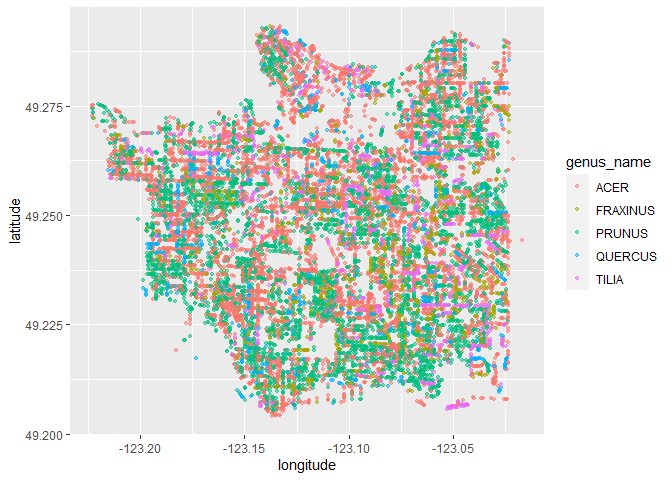
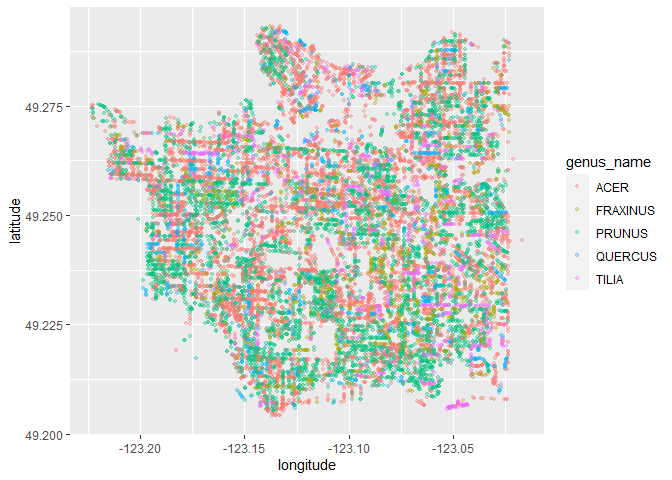
Update Rmd & md & image

Changed region(s): [[0.125, 0.0312, 0.7812, 0.875], [0.75, 0.0938, 0.7812, 0.125]]

diff --git a/mini-project-1.md b/mini-project-1.md
@@ -538,7 +538,7 @@ than 100 and there are only 10 trees with diameter over 100.
 **Exercise 2**
 
 Next, I created a new variable `location` to combine longitude and
-latitude columns(corresponding to Q2), which makes the tree location
+latitude columns (corresponding to Q2), which makes the tree location
 clear.
 
 ``` r
@@ -611,7 +611,7 @@ NA values, which are `plant_area`(1486), `longitude`(22771),
 
 **Exercise 4**
 
-I want to make a new tibble with a subset of my data(corresponding to
+I want to make a new tibble with a subset of my data (corresponding to
 Q7), with `tree_id`, `diameter`, `height_range_id`, `genus_name`,
 `species_name`, `cultivar_name`, `common_name` and filter all
 `root_barrier='Y'` observations to further explore the relationship
@@ -732,7 +732,7 @@ for!
 
 I compute the *range*, *mean*, *median*, and *variance* of `diameter`
 across the groups of `root_barrier` from the dataset. Then plot a graph
-out of the mean value
+out of the mean value.
 
 ``` r
 statistics_vancouver_trees <- vancouver_trees %>%
@@ -920,7 +920,7 @@ which genus these points are belonging to.
 vancouver_trees %>%
   filter(genus_name == c("ACER", "PRUNUS", "FRAXINUS", "TILIA", "QUERCUS")) %>%
   ggplot(aes(x = longitude, y = latitude, color = genus_name)) +
-  geom_point(alpha = 0.5, size = 0.9)
+  geom_point(alpha = 0.3, size = 0.9)
 ```
 
 ![](mini-project-1_files/figure-gfm/unnamed-chunk-19-1.png)<!-- -->
@@ -984,9 +984,9 @@ question 4.
 
 Based on the longitude and latitude, I visualize the trees’ map for the
 5 most popular genus trees. Because there are lots of overlapping
-between these points, I applied alpha transparency to make them clear. I
-noticed that some genus of tree distributions are quite dispersed that
-it is difficult (or meaningless) to find the clusters of them.
+between these points, alpha transparency is applied to make them clear.
+I also noticed that some genus of tree distributions are quite dispersed
+that it is difficult (or meaningless) to find the clusters of them.
 
 Therefore, I would like to apply clustering algorithms only on
 particular tree genus with obvious clusters.
